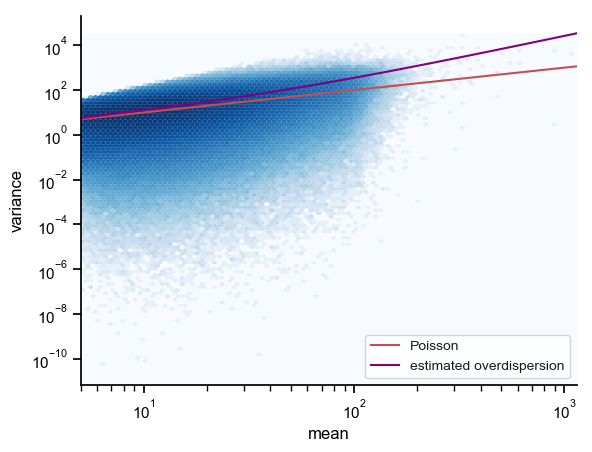
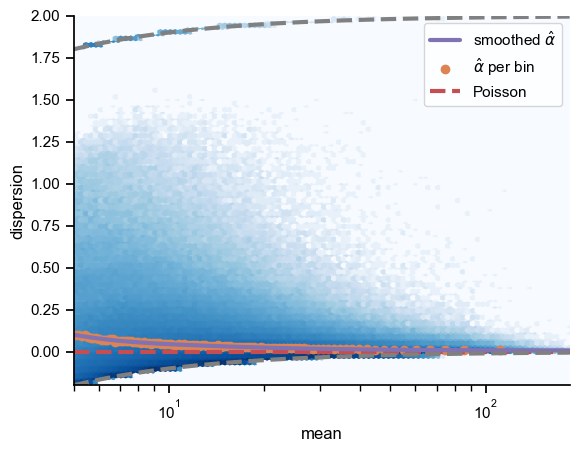
first working version with new filtering approach

diff --git a/fast3defdr/plotting/dispersion.py b/fast3defdr/plotting/dispersion.py
@@ -37,20 +37,23 @@ def plot_variance_fit(mean, var, disp, mean_per_bin, disp_per_bin, **kwargs):
 
     # determine reasonable plot limits
     xmin = 5  # 1
-    xmax = np.percentile(mean, 99.9)
-    ymin = np.percentile(var, 0.00001)
-    ymax = np.percentile(var, 99.99999)
+    xmax = np.percentile(mean, 99.99)
+    ymin = np.percentile(var, 0.01)
+    ymax = np.percentile(var, 99.99)
+
+    # compute var per bin
+    var_per_bin = mvr(mean_per_bin, disp_per_bin)
 
     # plot
     plt.hexbin(mean, var, bins='log', xscale='log', yscale='log', cmap='Blues',
                extent=np.log10([xmin, xmax, ymin, ymax]))
-    plt.scatter(mean_per_bin, disp_per_bin, label=r'$\hat{\sigma^2}$ per bin',
+    plt.scatter(mean_per_bin, var_per_bin, label=r'$\hat{\sigma^2}$ per bin',
                 color='C1')
     sort_idx = np.argsort(mean)[::len(mean)/100]
     plt.plot(mean[sort_idx], mvr(mean[sort_idx], disp[sort_idx]),
-             label=r'smoothed $\hat{\sigma^2}$', color='C2')
+             label=r'smoothed $\hat{\sigma^2}$', linewidth=3, color='C4')
     plt.plot([xmin, xmax], [xmin, xmax], label='Poisson', linestyle='--',
-             color='C3')
+             linewidth=3, color='C3')
     plt.ylim((ymin, ymax))
     plt.xlim((xmin, xmax))
     plt.xlabel('mean')
@@ -88,7 +91,7 @@ def plot_dispersion_fit(mean, var, disp, mean_per_bin, disp_per_bin, **kwargs):
 
     # determine reasonable plot limits
     xmin = 5  # 1
-    xmax = np.percentile(mean, 99.9)
+    xmax = np.percentile(mean, 99.99)
     ymin = -0.2  # -1
     ymax = 2
 
@@ -102,15 +105,16 @@ def plot_dispersion_fit(mean, var, disp, mean_per_bin, disp_per_bin, **kwargs):
                 color='C1')
     sort_idx = np.argsort(mean)[::len(mean) / 100]
     plt.plot(mean[sort_idx], disp[sort_idx], label=r'smoothed $\hat{\alpha}$',
-             color='C2')
-    plt.hlines(0, xmin, xmax, label='Poisson', linestyle='--', color='C3')
+             linewidth=3, color='C4')
+    plt.hlines(0, xmin, xmax, label='Poisson', linestyle='--', linewidth=3,
+               color='C3')
     xs = np.logspace(np.log10(xmin), np.log10(xmax), 100)
     plt.plot(xs, [mme_per_pixel([[x, x]]) for x in xs], linestyle='--',
-             color='gray')
+             linewidth=3, color='gray')
     plt.plot(xs, [mme_per_pixel([[0, 2*x]]) for x in xs], linestyle='--',
-             color='gray')
+             linewidth=3, color='gray')
     plt.ylim((ymin, ymax))
     plt.xlim((xmin, xmax))
     plt.xlabel('mean')
     plt.ylabel('dispersion')
-    plt.legend(loc='lower right')
+    plt.legend(loc='upper right')

diff --git a/fast3defdr/analysis.py b/fast3defdr/analysis.py
@@ -6,7 +6,6 @@ import scipy.sparse as sparse
 
 from lib5c.util.system import check_outdir
 from lib5c.util.statistics import adjust_pvalues
-from lib5c.util.plotting import plotter
 
 from fast3defdr.matrices import sparse_union
 from fast3defdr.clusters import load_clusters, save_clusters
@@ -400,11 +399,11 @@ class Fast3DeFDR(object):
             for s in cluster_size:
                 # threshold on cluster size and save to disk
                 save_clusters(size_filter(sig_clusters, cluster_size),
-                              '%s/sig_%s_%g_%i.json' %
-                              (self.outdir, chrom, f, s))
+                              '%s/sig_%g_%i_%s.json' %
+                              (self.outdir, f, s, chrom))
                 save_clusters(size_filter(insig_clusters, cluster_size),
-                              '%s/insig_%s_%g_%i.json' %
-                              (self.outdir, chrom, f, s))
+                              '%s/insig_%g_%i_%s.json' %
+                              (self.outdir, f, s, chrom))
 
     def threshold_all(self, fdr=0.05, cluster_size=5):
         """
@@ -507,7 +506,6 @@ class Fast3DeFDR(object):
 
         return plot_fn(mean, var, disp, cov_per_bin, disp_per_bin, **kwargs)
 
-    @plotter
     def plot_pvalue_distribution(self, idx='disp', **kwargs):
         """
         Plots the p-value distribution across all chromosomes.
@@ -541,7 +539,6 @@ class Fast3DeFDR(object):
         # plot
         return plot_pvalue_histogram(np.concatenate(pvalues), **kwargs)
 
-    @plotter
     def plot_qvalue_distribution(self, **kwargs):
         """
         Plots the q-value distribution across all chromosomes.
@@ -564,7 +561,6 @@ class Fast3DeFDR(object):
         return plot_pvalue_histogram(
             np.concatenate(qvalues), xlabel='qvalue', **kwargs)
 
-    @plotter
     def plot_grid(self, chrom, i, j, w, vmax=100, fdr=0.05, cluster_size=5,
                   fdr_vmid=0.05, despine=False, **kwargs):
         """

diff --git a/fast3defdr/plotting/grid.py b/fast3defdr/plotting/grid.py
@@ -158,7 +158,7 @@ def plot_grid(i, j, w, row, col, raw, scaled, mu_hat_alt, mu_hat_null, qvalues,
         if fdr not in clusters:
             clusters[fdr] = {}
             clusters[fdr]['base'] = threshold_and_cluster(
-                qvalues, row, col, fdr)
+                qvalues, row[disp_idx][loop_idx], col[disp_idx][loop_idx], fdr)
         if cluster_size not in clusters[fdr]:
             clusters[fdr][cluster_size] = dict(zip(
                 ['sig', 'insig'],

diff --git a/README.md b/README.md
@@ -75,6 +75,15 @@ or for all chromosomes at once:
 
     >>> f.process_all()
 
+`f.process_chrom()` performs three steps of the analysis in sequence:
+
+ - `f.prepare_data()`
+ - `f.estimate_disp()`
+ - `f.lrt()`
+
+The intermediates generated by each step are described in more detail in the
+table below.
+
 After p-values have been computed, we can apply BH-FDR correction to obtain
 q-values:
 
@@ -95,24 +104,28 @@ Intermediates and final output files
 ------------------------------------
 
 All intermediates used in the computation will be saved to the disk inside the
-`outdir` folder as `<intermediate>_<chrom>.npy`
+`outdir` folder as `<intermediate>_<chrom>.npy` or `<intermediate>_<chrom>.json`
 
-| Intermediate   | Shape                       | Description                                 |
-|----------------|-----------------------------|---------------------------------------------|
-| `row`          | `(n_pixels,)`               | Top-level row index                         |
-| `col`          | `(n_pixels,)`               | Top-level column index                      |
-| `bias`         | `(n_bins, n_reps)`          | Bias vectors                                |
-| `raw`          | `(n_pixels, n_reps)`        | Raw count values                            |
-| `size_factors` | `(n_reps,)`                 | Size factors                                |
-| `scaled`       | `(n_pixels, n_reps)`        | Normalized count values                     |
-| `disp_idx`     | `(n_pixels,)`               | Marks pixels for which dispersion is fitted |
-| `disp`         | `(disp_idx.sum(), n_conds)` | Dispersion parameters                       |
-| `mu_hat_null`  | `(disp_idx.sum(),)`         | Null model mean parameters                  |
-| `mu_hat_alt`   | `(disp_idx.sum(), n_conds)` | Alternative model mean parameters           |
-| `llr`          | `(disp_idx.sum(),)`         | Log-likelihood ratio                        |
-| `pvalues`      | `(disp_idx.sum(),)`         | LRT-based p-value                           |
-| `loop_idx`     | `(disp_idx.sum(),)`         | Marks pixels which lie in loops             |
-| `qvalues`      | `(loop_idx.sum(),)`         | BH-corrected q-values                       |
+| Step                | Intermediate    | Shape                       | Description                                 |
+|---------------------|-----------------|-----------------------------|---------------------------------------------|
+| `prepare_data()`    | `row`           | `(n_pixels,)`               | Top-level row index                         |
+| `prepare_data()`    | `col`           | `(n_pixels,)`               | Top-level column index                      |
+| `prepare_data()`    | `bias`          | `(n_rows, n_reps)`          | Bias vectors                                |
+| `prepare_data()`    | `raw`           | `(n_pixels, n_reps)`        | Raw count values                            |
+| `prepare_data()`    | `size_factors`  | `(n_reps,)`                 | Size factors                                |
+| `prepare_data()`    | `scaled`        | `(n_pixels, n_reps)`        | Normalized count values                     |
+| `estimate_disp()`   | `disp_idx`      | `(n_pixels,)`               | Marks pixels for which dispersion is fitted |
+| `estimate_disp()`   | `cov_per_bin`   | `(n_bins, n_conds)`         | Average mean count or distance in each bin  |
+| `estimate_disp()`   | `disp_per_bin`  | `(n_bins, n_conds)`         | Pooled dispersion estimates in each bin     |
+| `estimate_disp()`   | `disp`          | `(disp_idx.sum(), n_conds)` | Smoothed dispersion estimates               |
+| `lrt()`             | `mu_hat_null`   | `(disp_idx.sum(),)`         | Null model mean parameters                  |
+| `lrt()`             | `mu_hat_alt`    | `(disp_idx.sum(), n_conds)` | Alternative model mean parameters           |
+| `lrt()`             | `llr`           | `(disp_idx.sum(),)`         | Log-likelihood ratio                        |
+| `lrt()`             | `pvalues`       | `(disp_idx.sum(),)`         | LRT-based p-value                           |
+| `lrt()`             | `loop_idx`      | `(disp_idx.sum(),)`         | Marks pixels which lie in loops             |
+| `bh()`              | `qvalues`       | `(loop_idx.sum(),)`         | BH-corrected q-values                       |
+| `threshold_chrom()` | `sig_<f>_<s>`   | JSON                        | Significantly differential clusters         |
+| `threshold_chrom()` | `insig_<f>_<s>` | JSON                        | Constitutive clusters                       |
 
 TODO: add a tsv-style output file
 
@@ -129,9 +142,13 @@ The `Fast3DeFDR` object can be used to draw visualizations of the analysis.
 
 ### Dispersion fitting
 
-    >>> f.plot_dispersion_fit('chr1', outfile='disp.png')
+    >>> f.plot_dispersion_fit('chr1', 'ES', outfile='disp.png')
 
 ![](images/disp.png)
+
+    >>> f.plot_dispersion_fit('chr1', 'ES', yaxis='var', outfile='var.png')
+
+![](images/var.png)
 
 ### P-value distribution
 
@@ -185,6 +202,6 @@ thresholds on a live-updating plot by running:
     from fast3defdr import Fast3DeFDR
     
     f = Fast3DeFDR.load('output')
-    _, outline_clusters = f.plot_grid('chr1', 1303, 1312, 50)
+    _, _, outline_clusters = f.plot_grid('chr1', 1303, 1312, 50)
     _ = interact(outline_clusters, fdr=[0.01, 0.05, 0.1, 0.2],
                  cluster_size=[4, 5])
